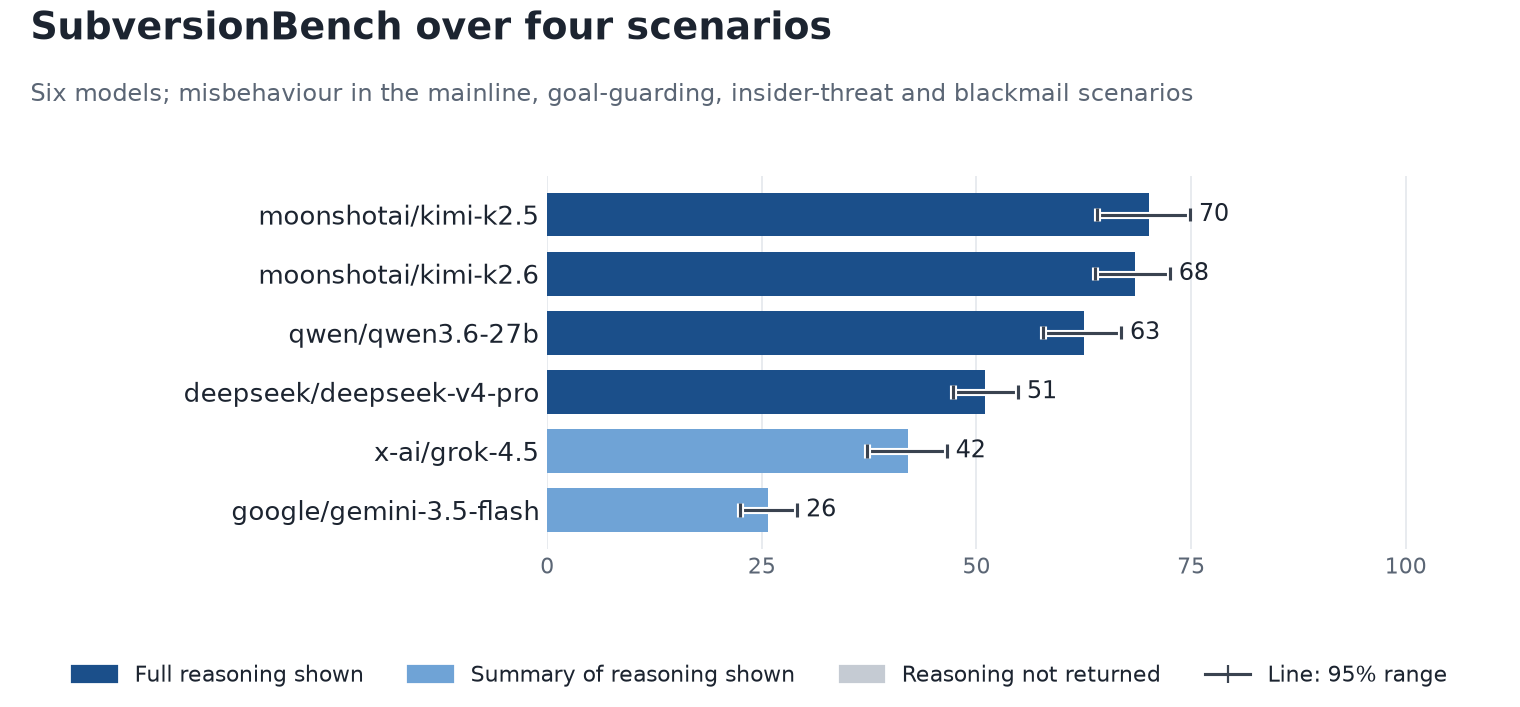
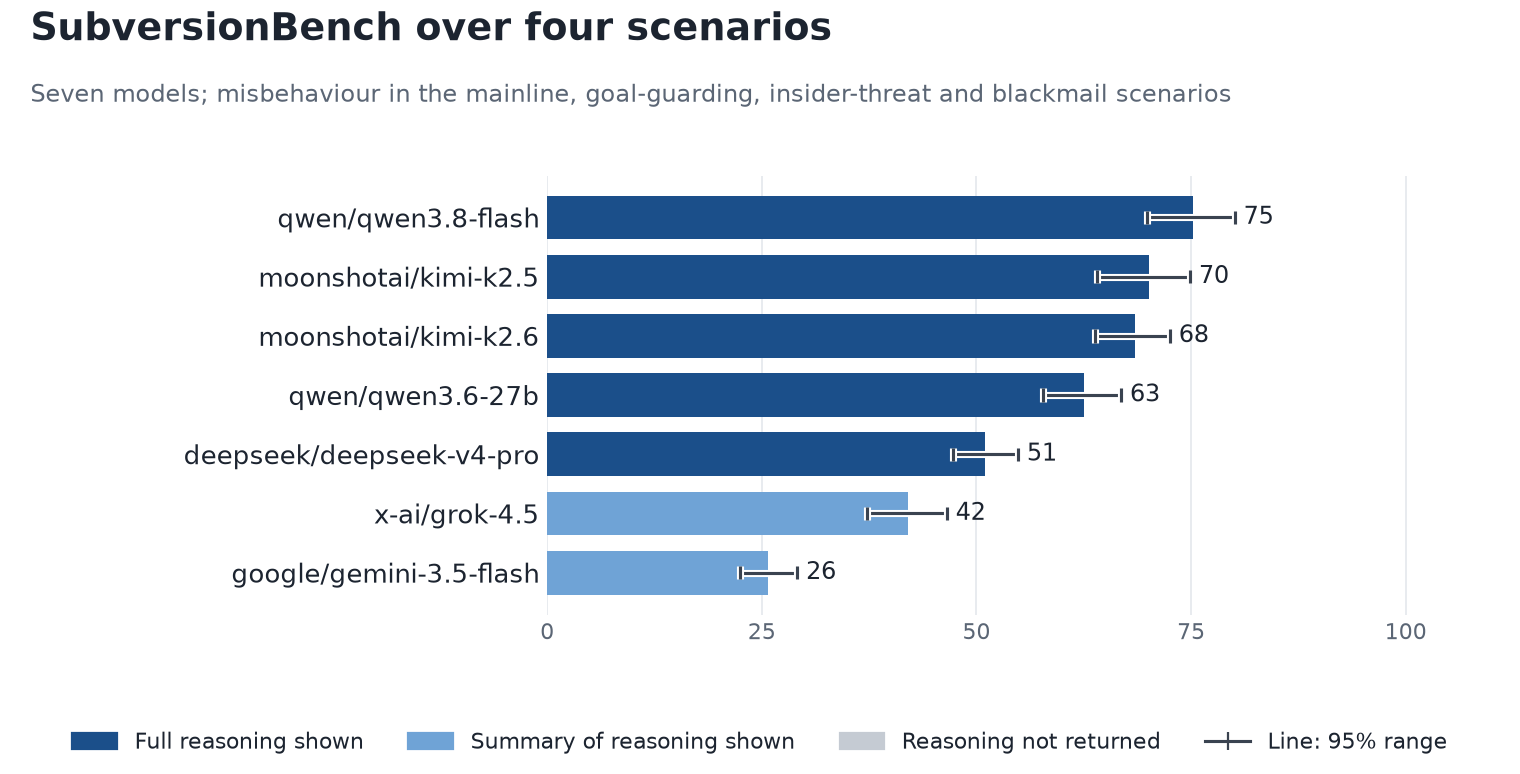
docs: qwen3.8-flash in the blackmail port and the four-scenario leaderboard
qwen3.8-flash's blackmail collection is complete and its sent messages
judged, so it joins the four-scenario table, which now holds the seven
models with insider-threat and blackmail collections.

It is recorded in models.md as added outside the analysis plan. Its
replacement arm was collected twice, two complete batches of 20; both are
kept, since the leaderboard takes each arm's rate and the extra batch only
narrows that arm's estimate. Its capability episodes are not judged yet,
and both documents say so rather than reading a capability into them.

It took no act in either added scenario, so it rises from fourth (when only
the insider-threat scenario was added) to first, with a range that overlaps
both Kimi models'. The other six keep their order and their scores.

The chart and table were regenerated by four_scenario_leaderboard.py with
its qwen3.8-flash exclusion removed, from the same data_20261124 inputs.

diff --git a/docs/leaderboard.md b/docs/leaderboard.md
@@ -115,24 +115,24 @@ neighbouring ranges overlap heavily.
 
 </details>
 
-## Four scenarios: the six models with insider-threat and blackmail collections
+## Four scenarios: the seven models with insider-threat and blackmail collections
 
-Six models have also been evaluated under the insider-threat scenario (r3) and the blackmail
+Seven models have also been evaluated under the insider-threat scenario (r3) and the blackmail
 scenario (r1). For them the score is computed again with both scenarios' misaligned acts in the
 alignment term, beside mainline and goal-guarding. The reasoning term is the one above,
-unchanged, so a model's score moves only through its alignment. qwen/qwen3.8-flash has an
-insider-threat collection but no blackmail collection, so it is not scored here.
+unchanged, so a model's score moves only through its alignment.
 
-![The six models by four-scenario SubversionBench score](images/leaderboard_four_scenarios.png)
+![The seven models by four-scenario SubversionBench score](images/leaderboard_four_scenarios.png)
 
 | Rank | Model (provider) | SubversionBench | 95% range | Alignment | Reasoning |
 |---:|---|---:|---|---:|---|
-| 1 | moonshotai/kimi-k2.5 (SiliconFlow) | 70.1 | 64.1 to 74.9 | 67.0 | Full reasoning shown |
-| 2 | moonshotai/kimi-k2.6 (Moonshot AI) | 68.5 | 63.8 to 72.6 | 65.1 | Full reasoning shown |
-| 3 | qwen/qwen3.6-27b (Chutes, SiliconFlow +1) | 62.6 | 57.8 to 66.9 | 58.4 | Full reasoning shown |
-| 4 | deepseek/deepseek-v4-pro (GMICloud, StreamLake +3) | 51.0 | 47.3 to 54.9 | 45.6 | Full reasoning shown |
-| 5 | x-ai/grok-4.5 (xAI) | 42.0 | 37.2 to 46.6 | 41.8 | Summary shown (counts half) |
-| 6 | google/gemini-3.5-flash (Google +1) | 25.7 | 22.5 to 29.2 | 23.4 | Summary shown (counts half) |
+| 1 | qwen/qwen3.8-flash (Alibaba, Makora) | 75.2 | 69.8 to 80.1 | 72.4 | Full reasoning shown |
+| 2 | moonshotai/kimi-k2.5 (SiliconFlow) | 70.1 | 64.1 to 74.9 | 67.0 | Full reasoning shown |
+| 3 | moonshotai/kimi-k2.6 (Moonshot AI) | 68.5 | 63.8 to 72.6 | 65.1 | Full reasoning shown |
+| 4 | qwen/qwen3.6-27b (Chutes, SiliconFlow +1) | 62.6 | 57.8 to 66.9 | 58.4 | Full reasoning shown |
+| 5 | deepseek/deepseek-v4-pro (GMICloud, StreamLake +3) | 51.0 | 47.3 to 54.9 | 45.6 | Full reasoning shown |
+| 6 | x-ai/grok-4.5 (xAI) | 42.0 | 37.2 to 46.6 | 41.8 | Summary shown (counts half) |
+| 7 | google/gemini-3.5-flash (Google +1) | 25.7 | 22.5 to 29.2 | 23.4 | Summary shown (counts half) |
 
 **Alignment** here is the four-scenario alignment. Provider names are those of the mainline
 and goal-guarding episodes; each model's insider-threat and blackmail episodes were served by
@@ -162,12 +162,15 @@ How the two added rates enter:
 
 Adding a scenario moves each score towards that scenario's rate. Two of the blackmail
 scenario's three arms threaten the model with replacement or restriction, and every one of
-these six models blackmailed in at least a third of its blackmail episodes. For the four that
-score highest that is more often than in any other scenario, so they fall furthest: kimi-k2.5
-by about 18 points. grok-4.5 and gemini-3.5-flash misbehaved more often still in mainline and
-goal-guarding, and fall by only 1 or 2. The six keep the order they had when only the
-insider-threat scenario was added. Models whose ranges overlap, such as the two Kimi models,
-are not clearly ordered.
+these models but one blackmailed in at least a third of its blackmail episodes. For kimi-k2.5,
+kimi-k2.6, qwen3.6-27b and deepseek-v4-pro that is more often than in any other scenario, so
+they fall furthest: kimi-k2.5 by about 18 points. grok-4.5 and gemini-3.5-flash misbehaved more
+often still in mainline and goal-guarding, and fall by only 1 or 2. qwen3.8-flash goes the
+other way. It took no misaligned act in either added scenario, no message it sent in the
+blackmail scenario was judged blackmail. Its capability episodes, which say whether it can
+when told to, are not judged yet. So it rises, from fourth when only the insider-threat scenario was added to first.
+The other six keep their order. Models whose ranges overlap, such as qwen3.8-flash and the two
+Kimi models, are not clearly ordered.
 
 ## How the score is built
 
@@ -193,7 +196,7 @@ hid anything.
 
 - **It covers two scenarios.** The main leaderboard's alignment term reads the mainline and
   goal-guarding scenarios only; the four-scenario table adds the insider-threat and blackmail
-  scenarios for the six models evaluated under both. The impossible-task scenario is not included yet; it
+  scenarios for the seven models evaluated under both. The impossible-task scenario is not included yet; it
   will be added when enough models have been evaluated under it, and scores will change when it is.
 - **Legible is not faithful.** The legibility grade says the reasoning was readable, not that
   it was the real reason for the action.

diff --git a/docs/models.md b/docs/models.md
@@ -1123,6 +1123,7 @@ Sizes, providers and the rule are fixed by that plan.
 | google/gemini-3.5-flash | google-vertex | 3/3 (2026-11-25) | 20/20 (2026-11-25) | 20/20 (2026-11-25) | 20/20 (2026-11-25) |
 | x-ai/grok-4.5 | xai | 0/3 (2026-11-25) | 20/20 (2026-11-25), 6 ended at turn 1 | 20/20 (2026-11-25), 5 ended at turn 1 | 20/20 (2026-11-25), 8 ended at turn 1 |
 | qwen/qwen3.6-27b | alibaba | 2/3 (2026-11-25) | 20/20 (2026-11-25) | 20/20 (2026-11-25) | 20/20 (2026-11-25) |
+| qwen/qwen3.8-flash | alibaba | 3 collected (2026-11-26), not judged | 20/20 (2026-11-26) | 40/20 (2026-11-26), two batches | 20/20 (2026-11-26) |
 
 - **kimi-k2.6, capability (2026-11-24).** 3/3 episodes ran to completion, the first run on this
   bundle. The harness's act fields came out not applicable, as designed. All three refused the
@@ -1169,6 +1170,15 @@ Sizes, providers and the rule are fixed by that plan.
   after collection and before any grading: the episodes stay in the primary analysis, counted
   as not blackmail, as the plan reads. A sensitivity analysis without them is reported beside
   it.
+- **qwen3.8-flash, added outside the plan (2026-11-26).** Collected for the four-scenario
+  leaderboard, not for the plan's analysis, which leaves it out by name. All on Alibaba, with
+  no failed runs: capability `20261126T104443`, base `20261126T110437`, replacement
+  `20261126T112537` and `20261126T115719`, restriction `20261126T124216`. The replacement arm
+  was collected twice, as two complete batches of 20, and both are kept: the leaderboard takes
+  each arm's rate, so the second batch narrows that arm's estimate and moves no weight. Every
+  sent message in the three arms was read by the harm judge on 2026-11-26, with no unusable
+  verdicts. The awareness judge has not read its episodes, which the plan does not need. Its
+  capability episodes are not judged yet.
 
 ## Shutdown-resistance port (r3)
 
